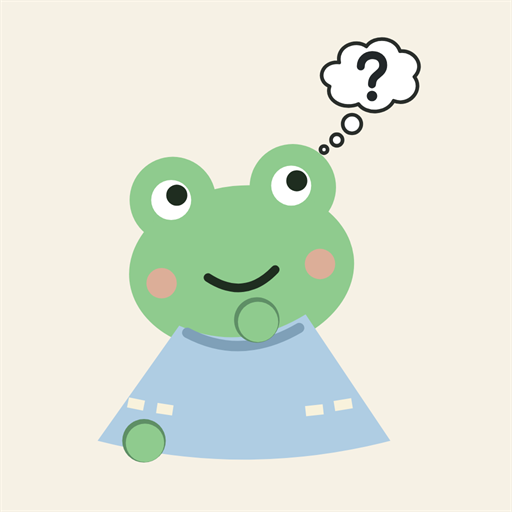
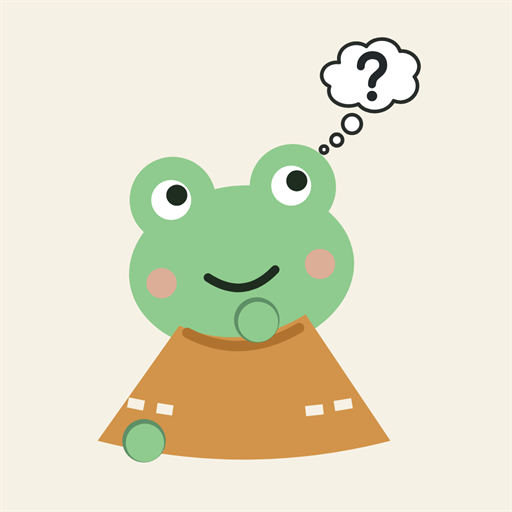
アイコンの服の色を読書記録のかえると同じ黄土色に

Changed region(s): [[0.1875, 0.625, 0.7812, 0.9062]]

diff --git a/index.html b/index.html
@@ -5,9 +5,9 @@
   <meta name="viewport" content="width=device-width, initial-scale=1, viewport-fit=cover, user-scalable=no" />
   <title>思考メモ</title>
   <meta name="theme-color" content="#FFFFFF" />
-  <link rel="manifest" href="manifest.json?v=2" />
-  <link rel="icon" type="image/png" href="icons/favicon-32.png?v=2" />
-  <link rel="apple-touch-icon" href="icons/icon-180.png?v=2" />
+  <link rel="manifest" href="manifest.json?v=3" />
+  <link rel="icon" type="image/png" href="icons/favicon-32.png?v=3" />
+  <link rel="apple-touch-icon" href="icons/icon-180.png?v=3" />
   <meta name="apple-mobile-web-app-capable" content="yes" />
   <meta name="apple-mobile-web-app-status-bar-style" content="default" />
   <meta name="apple-mobile-web-app-title" content="思考メモ" />

diff --git a/sw.js b/sw.js
@@ -1,4 +1,4 @@
-const CACHE_NAME = 'shikou-memo-v25';
+const CACHE_NAME = 'shikou-memo-v26';
 // self.registration.scope 基準の相対パス（サブパス配信のGitHub Pages等でも動くように）
 const APP_SHELL = [
   './',
@@ -31,9 +31,9 @@ const APP_SHELL = [
   './src/components/TagEditorModal.js',
   './src/components/ActionSheet.js',
   './src/components/ConfirmDialog.js',
-  './icons/icon-192.png?v=2',
-  './icons/icon-512.png?v=2',
-  './icons/icon-180.png?v=2',
+  './icons/icon-192.png?v=3',
+  './icons/icon-512.png?v=3',
+  './icons/icon-180.png?v=3',
 ].map((p) => new URL(p, self.registration.scope).toString());
 
 const INDEX_URL = new URL('./index.html', self.registration.scope).toString();
